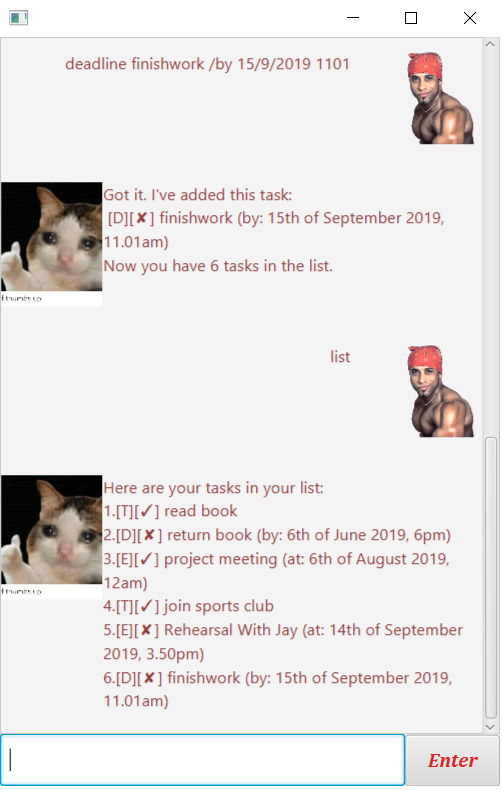
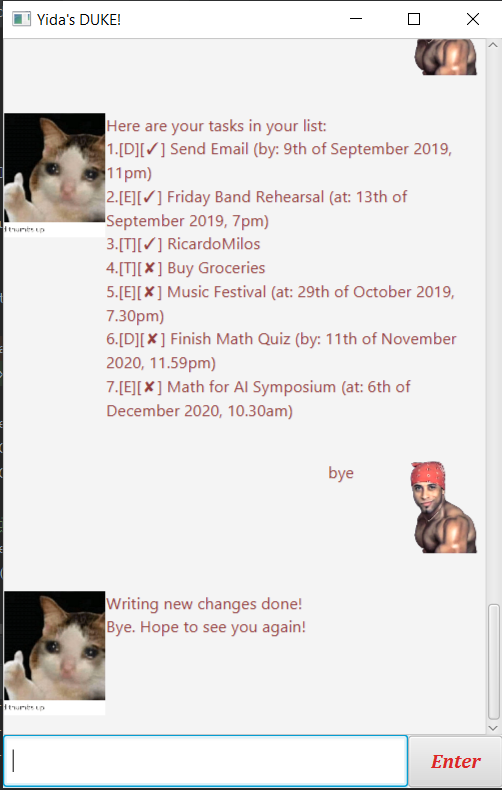
Updated sample UI Image

Changed region(s): [[0.0, 0.0, 1.0, 1.0], [0.6561, 0.5772, 0.7157, 0.6076], [0.6859, 0.0, 0.7157, 0.0304]]

diff --git a/src/main/java/duke/Main.java b/src/main/java/duke/Main.java
@@ -27,6 +27,7 @@ public class Main extends Application {
             fxmlLoader.<MainWindow>getController().setDuke(duke);
             fxmlLoader.<MainWindow>getController().setDukeUI(duke.getUI());
             stage.show();
+            stage.setTitle("Yida's DUKE!");
         } catch (IOException e) {
             e.printStackTrace();
         }
